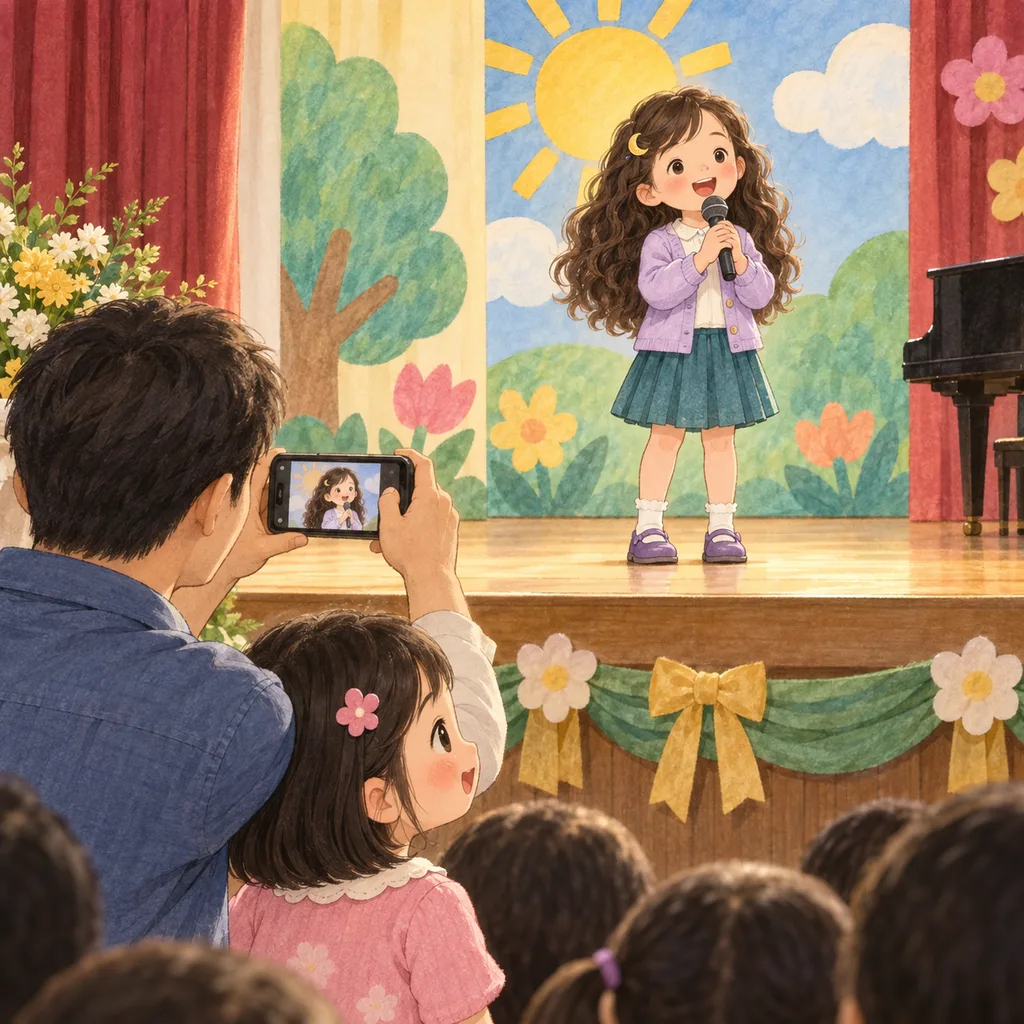
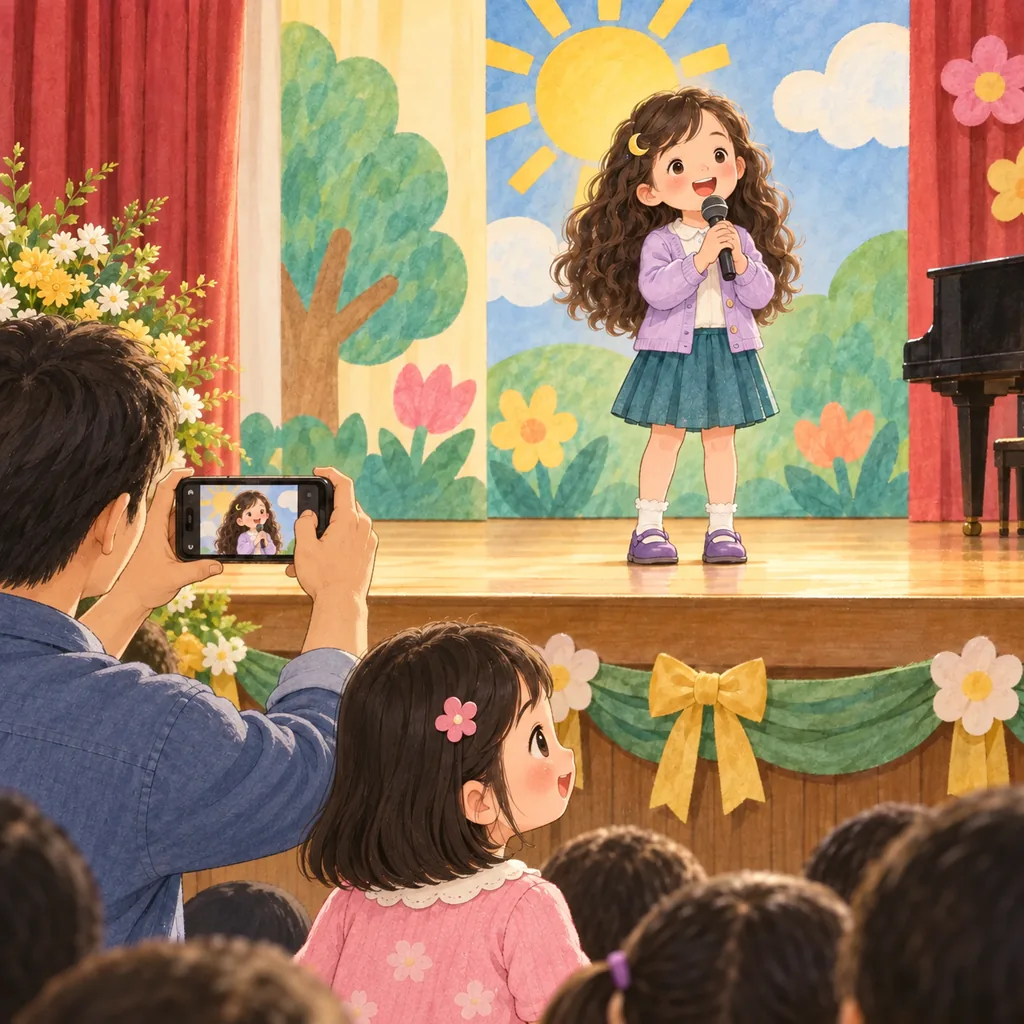
Repair L452 S04 and S05 illustrations

diff --git a/docs/PARALLEL_LESSON_REGISTRY.md b/docs/PARALLEL_LESSON_REGISTRY.md
@@ -16,7 +16,7 @@ When the teacher wants to prepare 2-3 lessons or review modules at the same time
 
 | Unit | New Character(s) / Kind | Status | Owner / Thread | Branch / Commit | Depends On | Provisional Learned Chars | Request / Packet | Assets | Notes |
 |---|---|---|---|---|---|---|---|---|---|
-| L452 | 候 | ready-blocked-by-dependency | Production F / `parallel-f` | `codex/l452-complete-package` / assets `c62e5bf82f01` | Text: L447:拍, L448:歌, L449:唱, L450:舞, L451:台; Release order: L444-L451 and R055/R056 after L450 | 拍、歌、唱、舞、台 | `curriculum-workflow/lesson-requests/L452.json`; `curriculum-workflow/generated/L452-generation-packet.md`; `curriculum-workflow/drafts/L452-draft.json` | `curriculum-workflow/audio-inbox/L452/`; `public/assets/lessons/L452/` | Branch base `origin/main@5622c827` is formally through L443:操. Teacher-approved vocabulary remains locked to `a5779c4b` formal L001-L438 plus 拍、歌、唱、舞、台、候 (448 chars). Complete lesson-local package: 5 WebPs, 10 M4As, sentence/G02 timings, transcript and style/cast QA; fixed-ref Chrome playback 11/11 PASS. Release waits for all listed predecessors and R055/R056; normal post-main asset review remains repair queue. |
+| L452 | 候 | ready-blocked-by-dependency | Production F / `parallel-f` | `codex/l452-complete-package` / assets `c62e5bf82f01` | Text: L447:拍, L448:歌, L449:唱, L450:舞, L451:台; Release order: L444-L451 and R055/R056 after L450 | 拍、歌、唱、舞、台 | `curriculum-workflow/lesson-requests/L452.json`; `curriculum-workflow/generated/L452-generation-packet.md`; `curriculum-workflow/drafts/L452-draft.json` | `curriculum-workflow/audio-inbox/L452/`; `public/assets/lessons/L452/` | Branch base `origin/main@5622c827` is formally through L443:操. Teacher-approved vocabulary remains locked to `a5779c4b` formal L001-L438 plus 拍、歌、唱、舞、台、候 (448 chars). Complete lesson-local package: 5 WebPs, 10 M4As, sentence/G02 timings, transcript and style/cast QA; fixed-ref Chrome playback 11/11 PASS; teacher-requested S04/S05 image repairs regenerated locally, pushed preview pending. Release waits for all listed predecessors and R055/R056; normal post-main asset review remains repair queue. |
 
 ## Status Values
 
